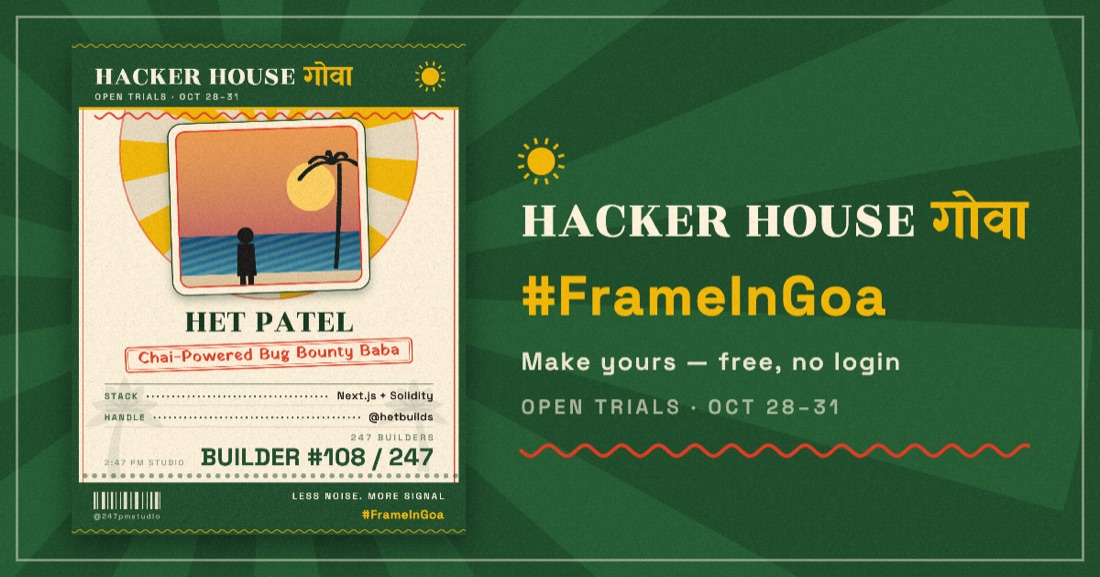
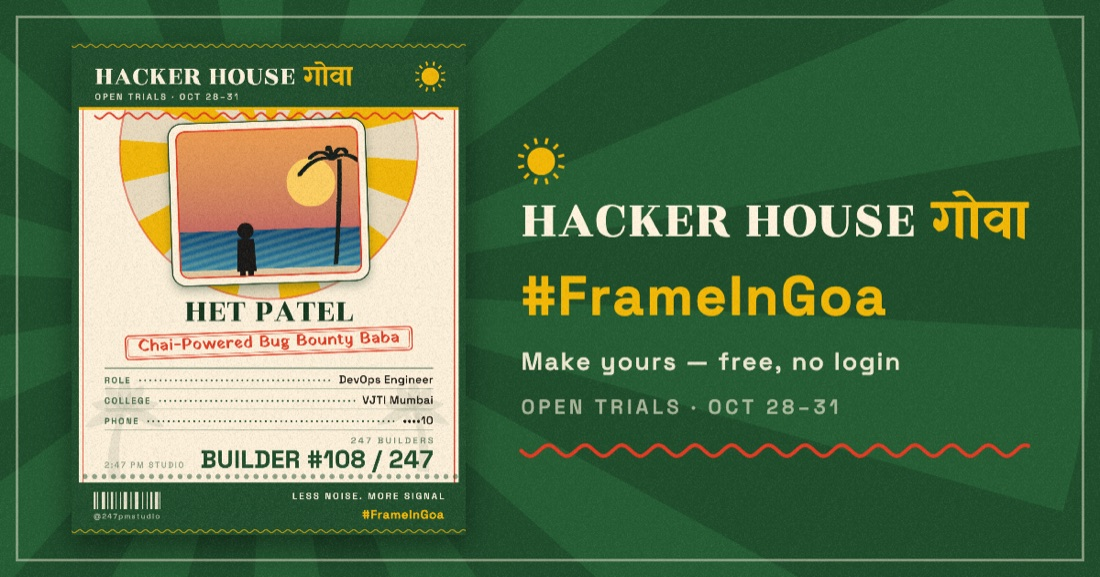
Rework the ID card around event-attendee details
The card now collects what an event ID actually needs — name, photo, role
in the team, college, phone — replacing the previous name / stack / X
handle set.

Phone numbers are masked at the render boundary. The form holds the full
value so an organiser can match a person at check-in, but the compositor
is only ever given maskPhone() output, so the card prints "••••10" and
never more than the last two digits. This graphic exists to be posted
publicly; a full number on a public image is a number handed to every
stranger who sees the post. Masking lives in the render path rather than
in form validation so a future field row cannot reintroduce the leak.

- lib/types.ts    CardFields: handle -> college + phone, with the privacy
                  contract documented on the field itself
- lib/titles.ts   sanitizePhone / maskPhone
- lib/render.ts   three data rows (ROLE / COLLEGE / PHONE); vertical budget
                  rebudgeted from two rows — photo gives up 25px and the
                  name/stamp block tightens to pay for it
- CardForm.tsx    numeric keypad via inputMode+pattern, and a live hint
                  showing exactly what the card will print
- app/page.tsx    state wiring

Verified against a production build: 23/23 browser checks, 13/13 masking
assertions sweeping every input length 3-15, typecheck clean. The exported
PNG was grepped for the phone digits — absent from pixels and metadata.

Changed region(s): [[0.0927, 0.3432, 0.4018, 0.8423], [0.2473, 0.2496, 0.34, 0.312]]

diff --git a/components/CardForm.tsx b/components/CardForm.tsx
@@ -2,29 +2,13 @@
 
 import { useId } from "react";
 
-import { formatBuilderNumber } from "@/lib/titles";
+import { formatBuilderNumber, maskPhone, sanitizePhone } from "@/lib/titles";
 import type { CardFields } from "@/lib/types";
 
 export interface CardFormProps {
   fields: CardFields;
   onChange: (next: CardFields) => void;
   onReroll: () => void;
-}
-
-/**
- * X handles are `[A-Za-z0-9_]{1,15}`. People paste "@name", "twitter.com/name"
- * or a name with a trailing space, and any of those would render as a broken
- * handle on the badge — so normalise on every keystroke rather than validating
- * at submit time (there is no submit).
- */
-export function sanitizeHandle(raw: string): string {
-  // lastIndexOf returns -1 when there is no slash, so slice(0) keeps the whole
-  // string; when someone pastes "x.com/ada" this keeps just "ada".
-  const lastSegment = raw.slice(raw.lastIndexOf("/") + 1);
-  return lastSegment
-    .replace(/^@+/, "")
-    .replace(/[^A-Za-z0-9_]/g, "")
-    .slice(0, 15);
 }
 
 const LABEL = "block font-data text-[11px] uppercase tracking-[0.18em] text-goa-ink/65";
@@ -35,11 +19,13 @@ export default function CardForm({ fields, onChange, onReroll }: CardFormProps) 
   const uid = useId();
   const nameId = `${uid}-name`;
   const roleId = `${uid}-role`;
-  const handleId = `${uid}-handle`;
+  const collegeId = `${uid}-college`;
+  const phoneId = `${uid}-phone`;
+  const phoneHintId = `${uid}-phone-hint`;
 
   return (
     <section className="mt-4 rounded-md border-[3px] border-goa-cream bg-goa-cream p-4 text-goa-ink shadow-[5px_5px_0_0_var(--color-goa-green-deep)]">
-      <p className="font-data text-[10px] uppercase tracking-[0.24em] text-goa-red">Builder details</p>
+      <p className="font-data text-[10px] uppercase tracking-[0.24em] text-goa-red">Your details</p>
 
       <div className="mt-3">
         <label htmlFor={nameId} className={LABEL}>
@@ -62,44 +48,74 @@ export default function CardForm({ fields, onChange, onReroll }: CardFormProps) 
 
       <div className="mt-3">
         <label htmlFor={roleId} className={LABEL}>
-          Stack / Role
+          Role in the team
         </label>
         <input
           id={roleId}
           type="text"
           value={fields.role}
           maxLength={32}
-          autoCapitalize="none"
+          autoCapitalize="words"
           autoCorrect="off"
           spellCheck={false}
-          placeholder="Next.js + Solidity"
+          placeholder="DevOps Engineer"
           className={`${INPUT} font-data`}
           onChange={(event) => onChange({ ...fields, role: event.target.value })}
         />
       </div>
 
       <div className="mt-3">
-        <label htmlFor={handleId} className={LABEL}>
-          X handle
+        <label htmlFor={collegeId} className={LABEL}>
+          College
         </label>
-        <div className="mt-1 flex items-center rounded-sm border-2 border-goa-ink/25 bg-white focus-within:border-goa-red">
-          <span aria-hidden="true" className="pl-3 font-data text-base text-goa-ink/40">
-            @
-          </span>
-          <input
-            id={handleId}
-            type="text"
-            inputMode="text"
-            value={fields.handle}
-            maxLength={15}
-            autoCapitalize="none"
-            autoCorrect="off"
-            spellCheck={false}
-            placeholder="yourhandle"
-            className="w-full min-w-0 rounded-sm bg-transparent px-2 py-2 font-data text-base text-goa-ink placeholder:text-goa-ink/35"
-            onChange={(event) => onChange({ ...fields, handle: sanitizeHandle(event.target.value) })}
-          />
-        </div>
+        <input
+          id={collegeId}
+          type="text"
+          value={fields.college}
+          maxLength={34}
+          autoCapitalize="words"
+          autoCorrect="off"
+          spellCheck={false}
+          placeholder="VJTI Mumbai"
+          className={`${INPUT} font-data`}
+          onChange={(event) => onChange({ ...fields, college: event.target.value })}
+        />
+      </div>
+
+      <div className="mt-3">
+        <label htmlFor={phoneId} className={LABEL}>
+          Phone
+        </label>
+        <input
+          id={phoneId}
+          type="tel"
+          // inputMode + pattern together are what actually summon the numeric
+          // keypad across iOS and Android; type="tel" alone is unreliable.
+          inputMode="numeric"
+          pattern="[0-9]*"
+          value={fields.phone}
+          maxLength={15}
+          autoComplete="tel"
+          autoCorrect="off"
+          spellCheck={false}
+          placeholder="9876543210"
+          aria-describedby={phoneHintId}
+          className={`${INPUT} font-data tracking-[0.08em]`}
+          onChange={(event) => onChange({ ...fields, phone: sanitizePhone(event.target.value) })}
+        />
+        <p id={phoneHintId} className="mt-1 font-data text-[11px] leading-snug text-goa-ink/60">
+          {fields.phone.length > 0 ? (
+            <>
+              Your card will show{" "}
+              <span className="font-semibold tracking-[0.12em] text-goa-ink">
+                {maskPhone(fields.phone)}
+              </span>{" "}
+              — never the full number.
+            </>
+          ) : (
+            <>Only the last 2 digits are printed on the card, so it&rsquo;s safe to post.</>
+          )}
+        </p>
       </div>
 
       <div className="mt-4 flex items-stretch gap-2">

diff --git a/lib/render.ts b/lib/render.ts
@@ -31,7 +31,7 @@ import {
 import { CARD, COLORS, EVENT, FONTS, OG, PFP, TINTS } from "./brand";
 import { ensureFontsReady } from "./fonts";
 import { drawPhoto } from "./transform";
-import { formatBuilderNumber } from "./titles";
+import { formatBuilderNumber, maskPhone } from "./titles";
 import type { Rect, RenderFormat, RenderInput } from "./types";
 
 const TAU = Math.PI * 2;
@@ -64,18 +64,21 @@ const PFP_BAND = PFP_OUTER_R - PFP_DISC_R; // 143.1
  *   20   header bar starts        ┐ 166 tall
  *   186  header bar ends          ┘
  *   202  wave rule
- *   217  photo block top (tilted + bordered)
- *   ~712 photo block bottom incl. drop shadow
- *   792  name baseline            ← floats down when rows collapse
- *   824  title stamp box top (68 tall)
- *   936  first data divider
- *   1052 data rows end (2 × 58)
- *   1092 cohort baseline
- *   1160 builder-number baseline
- *   1188 perforation
+ *   216  photo block top (tilted + bordered)
+ *   ~690 photo block bottom incl. drop shadow
+ *   764  name baseline            ← floats down when rows collapse
+ *   792  title stamp box top (64 tall)
+ *   892  first data divider
+ *   1063 data rows end (3 × 56)
+ *   1100 cohort baseline
+ *   1166 builder-number baseline
+ *   1190 perforation
  *   1206 footer strip starts      ┐ 124 tall
  *   1330 footer strip ends        ┘
  *   1350 border bottom
+ *
+ * Rebudgeted from two data rows to three (ROLE / COLLEGE / PHONE) — the photo
+ * lost 25px of height and the name/stamp block tightened to pay for it.
  */
 const CARD_L = {
   border: 20,
@@ -88,7 +91,7 @@ const CARD_L = {
   datesBaseline: 158,
   waveY: 202,
   /** Photo window in UNROTATED design space — this is what the editor drags in. */
-  photo: { x: 290, y: 236, w: 500, h: 430 } as Rect,
+  photo: { x: 290, y: 236, w: 500, h: 405 } as Rect,
   photoTilt: -2 * DEG,
   photoBorder: 20,
   photoRadius: 26,
@@ -96,16 +99,16 @@ const CARD_L = {
   sunCx: 540,
   sunCy: 296,
   sunR: 408,
-  nameBaseline: 792,
+  nameBaseline: 764,
   nameMaxWidth: 900,
-  stampGap: 32,
-  stampH: 68,
-  dividerGap: 44,
-  rowH: 58,
-  maxRows: 2,
-  cohortBaseline: 1092,
-  numberBaseline: 1160,
-  perfY: 1188,
+  stampGap: 28,
+  stampH: 64,
+  dividerGap: 36,
+  rowH: 56,
+  maxRows: 3,
+  cohortBaseline: 1100,
+  numberBaseline: 1166,
+  perfY: 1190,
   footerTop: 1206,
   footerBottom: 1330,
 } as const;
@@ -560,10 +563,12 @@ function drawCard(ctx: CanvasRenderingContext2D, input: RenderInput): void {
 
   // 7 — collapsible data rows decide how far the name block floats down.
   const rows: DataRow[] = [];
-  if (has(fields.role)) rows.push({ label: "STACK", value: fields.role.trim() });
-  if (has(fields.handle)) {
-    rows.push({ label: "HANDLE", value: `@${fields.handle.trim().replace(/^@+/, "")}` });
-  }
+  if (has(fields.role)) rows.push({ label: "ROLE", value: fields.role.trim() });
+  if (has(fields.college)) rows.push({ label: "COLLEGE", value: fields.college.trim() });
+  // PRIVACY: only ever the masked form reaches the canvas. This card is built to
+  // be posted publicly, so the full number must not exist anywhere in the PNG.
+  const phone = maskPhone(fields.phone);
+  if (has(phone)) rows.push({ label: "PHONE", value: phone });
   const title = fields.title.trim();
   const freed =
     (CARD_L.maxRows - rows.length) * CARD_L.rowH +

diff --git a/lib/titles.ts b/lib/titles.ts
@@ -212,6 +212,34 @@ export function fallbackBuilderNumber(name: string): number {
   return (hashString(name) % COHORT_SIZE) + 1;
 }
 
+/* ------------------------------------------------------------------- phone */
+
+/** Digits only, capped at 15 (E.164's maximum national-number length). */
+export function sanitizePhone(raw: string): string {
+  return raw.replace(/\D/g, "").slice(0, 15);
+}
+
+/**
+ * What the card is allowed to print: the last two digits, everything else
+ * bulleted out — `"9876543298"` → `"••••98"`.
+ *
+ * The exported PNG exists to be posted publicly. A full phone number on a
+ * public graphic is a number handed to every stranger who sees the post, so
+ * masking happens at the render boundary and there is deliberately no way to
+ * ask this module for the unmasked value. An organiser checking someone in
+ * still gets enough to disambiguate two people with the same name.
+ *
+ * Returns "" for empty input so the compositor can collapse the whole row.
+ */
+export function maskPhone(raw: string): string {
+  const digits = sanitizePhone(raw);
+  if (digits.length === 0) return "";
+  // Too short to mask meaningfully — bullet the lot rather than leak a 2-digit
+  // number that IS the whole number.
+  if (digits.length <= 2) return "•".repeat(digits.length);
+  return `${"•".repeat(Math.min(4, digits.length - 2))}${digits.slice(-2)}`;
+}
+
 /** `"BUILDER #041 / 247"` — the badge line on the ID card. */
 export function formatBuilderNumber(n: number): string {
   // Guard against NaN / fractional values arriving from a JSON payload; the

diff --git a/app/page.tsx b/app/page.tsx
@@ -40,7 +40,9 @@ export default function Page() {
 
   const [name, setName] = useState("");
   const [role, setRole] = useState("");
-  const [handle, setHandle] = useState("");
+  const [college, setCollege] = useState("");
+  /** Held in full for the form; only `maskPhone` output ever reaches the canvas. */
+  const [phone, setPhone] = useState("");
   /** 0 until the user rolls the dice; a new name resets it (see `applyName`). */
   const [salt, setSalt] = useState(0);
   const [serverBuilderNo, setServerBuilderNo] = useState<number | null>(null);
@@ -61,8 +63,8 @@ export default function Page() {
   const builderNo = serverBuilderNo ?? fallbackBuilderNumber(name);
 
   const fields = useMemo<CardFields>(
-    () => ({ name, role, handle, title, builderNo }),
-    [name, role, handle, title, builderNo],
+    () => ({ name, role, college, phone, title, builderNo }),
+    [name, role, college, phone, title, builderNo],
   );
 
   const renderInput = useMemo<RenderInput | null>(
@@ -181,7 +183,8 @@ export default function Page() {
     (next: CardFields) => {
       if (next.name !== name) applyName(next.name);
       setRole(next.role);
-      setHandle(next.handle);
+      setCollege(next.college);
+      setPhone(next.phone);
     },
     [applyName, name],
   );

diff --git a/lib/types.ts b/lib/types.ts
@@ -40,14 +40,24 @@ export interface Rect {
   h: number;
 }
 
-/** The user-supplied and auto-generated text on the Builder ID card. */
+/** The user-supplied and auto-generated text on the event ID card. */
 export interface CardFields {
   /** Required. Rendered uppercase in the display face. */
   name: string;
-  /** Free text, e.g. "Next.js + Solidity". Optional. */
+  /** Role in the team, e.g. "DevOps Engineer". Optional. */
   role: string;
-  /** Bare handle without the "@" — rendered as "@handle". Optional. */
-  handle: string;
+  /** College / institution, e.g. "VJTI Mumbai". Optional. */
+  college: string;
+  /**
+   * Phone number, digits only, as typed.
+   *
+   * PRIVACY: this is collected in full so an organiser can match a person at
+   * check-in, but the card only ever prints the last two digits — see
+   * `maskPhone` in lib/titles.ts. The exported PNG is designed to be posted
+   * publicly, and a full number on a public graphic is a number handed to
+   * strangers. Never render this field raw.
+   */
+  phone: string;
   /** Auto-generated builder title, e.g. "Chai-Powered Merge Monk". */
   title: string;
   /** 1 … COHORT_SIZE. */

diff --git a/README.md b/README.md
@@ -4,7 +4,7 @@
 
 # FrameInGoa
 
-**One photo → a branded Hacker House Goa 2026 profile frame *and* a Builder ID card.**
+**Your details + a photo → a Hacker House Goa 2026 event ID card, *and* a branded profile frame.**
 Two taps. No login. Nothing leaves your phone until you choose to share.
 
 `#FrameInGoa`
@@ -27,9 +27,14 @@ Two taps. No login. Nothing leaves your phone until you choose to share.
 <table>
 <tr>
 <td width="42%" align="center"><img src="docs/pfp.png" width="300" alt="1080×1080 profile frame"><br><sub><b>Format A — PFP Frame</b><br>1080 × 1080 · circular crop · legible at 48px</sub></td>
-<td width="58%" align="center"><img src="docs/card.jpg" width="330" alt="1080×1350 Builder ID card"><br><sub><b>Format B — Builder ID Card</b><br>1080 × 1350 · 4:5, full-bleed in the X feed</sub></td>
+<td width="58%" align="center"><img src="docs/card.jpg" width="330" alt="1080×1350 Builder ID card showing name, role, college and a masked phone number"><br><sub><b>Format B — Builder ID Card</b><br>1080 × 1350 · 4:5, full-bleed in the X feed</sub></td>
 </tr>
 </table>
+
+The ID card takes **photo · name · role in the team · college · phone**. Rows collapse when a field is left blank, so a sparse card still looks composed rather than half-empty.
+
+> [!IMPORTANT]
+> **The phone number is never printed in full.** The form collects it so an organiser can match a person at check-in, but the card renders only the last two digits — `••••10`. This graphic is built to be posted publicly, and a full number on a public image is a number handed to every stranger who sees the post. Masking happens at the render boundary in [`maskPhone`](lib/titles.ts), and there is deliberately no code path that draws the raw value.
 
 And a third the user never sees — a 1200×630 Open Graph variant, composed **client-side** from the same canvas, so a shared link unfurls with the actual card instead of a blank thumbnail:
 
@@ -235,6 +240,11 @@ Rozha One and Yatra One ship split Latin/Devanagari subsets, registered under on
 `titleFor(name)` is FNV-1a over an NFC-normalised, case-folded name, with a murmur3 finalizer decorrelating the adjective and role picks. The same name yields the same title on every device, forever — that is the delight. A 🎲 walks a salt forward until the words visibly change.
 
 </td></tr>
+<tr><td><b>The phone number is masked at the render boundary</b></td><td>
+
+Not in the form, not on submit — in `maskPhone`, the only function the compositor is given. `CardFields.phone` holds the full value for the form's own use, but nothing between it and the canvas can print more than the last two digits. Making it a property of the render path rather than a validation rule means a future field row cannot accidentally reintroduce the leak.
+
+</td></tr>
 <tr><td><b>Zero required configuration</b></td><td>
 
 Every env var is optional. No Blob token → `/api/cards` returns a clean **503** and the UI falls back to routes ① and ③. No KV → the builder number falls back to `(hash(name) % 247) + 1`, which is stable across reloads so a user who exports twice gets the same badge.
@@ -249,16 +259,22 @@ Every env var is optional. No Blob token → `/api/cards` returns a clean **503*
 Every number below came from driving the real app in headless Chromium against a production build.
 
 ```
-  mobile @360px ······ 12/12   no horizontal overflow · every tap target ≥ 44px
-  desktop + API ······ 12/12   drag-drop · 503 not 500 · 405 on GET · /c/[id] 404s bad ids
-  pure logic ········· 25/25   caption invariant · title determinism · slug fallbacks
+  browser suite ······ 23/23   360px overflow · 44px targets · every field labelled
+                               503-not-500 · 405 on GET · /c/[id] 404s bad ids
+  phone masking ······ 13/13   swept every input length 3–15, no leak possible
+  caption + titles ··· 25/25   #FrameInGoa invariant · determinism · slug fallbacks
   typecheck ·········· clean   strict + noUncheckedIndexedAccess
   taps to result ····· 2       (spec allowed 3)
   first load JS ······ 119 kB  WASM decoder confirmed split out
   export size ········ 1080×1350 verified byte-level on the downloaded PNG
 ```
 
-`#FrameInGoa` is asserted present across **every** caption branch — including the truncation path and all 247 builder numbers. The submission is invalid without it, so it is a tested invariant rather than a string literal someone hopes stays put.
+Two of those are worth calling out because they are the ones that would be embarrassing to get wrong:
+
+- **`grep` the exported PNG for the phone digits — they are not there.** Not the visible pixels, not the metadata. Asserted on the actual downloaded bytes, not on the input.
+- **`#FrameInGoa` survives every caption branch**, including the truncation path and all 247 builder numbers. The submission is invalid without it, so it is a tested invariant rather than a string someone hopes stays put.
+
+The caption that goes out with every post:
 
 ```
 Locked in for Hacker House Goa 🌴 Builder #041/247 reporting.
